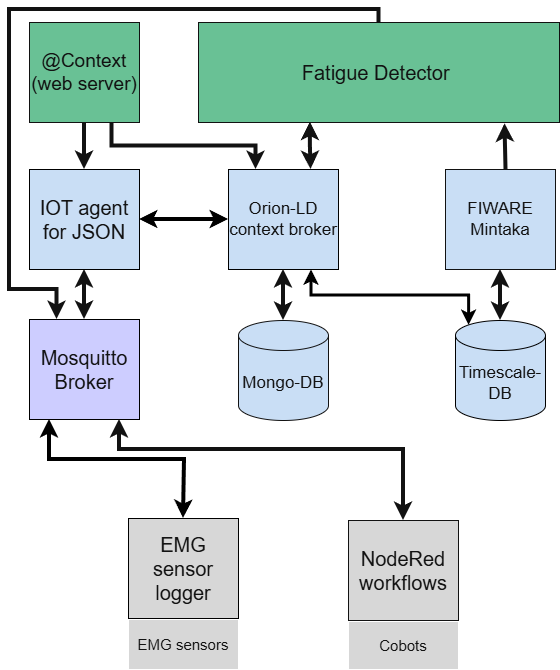
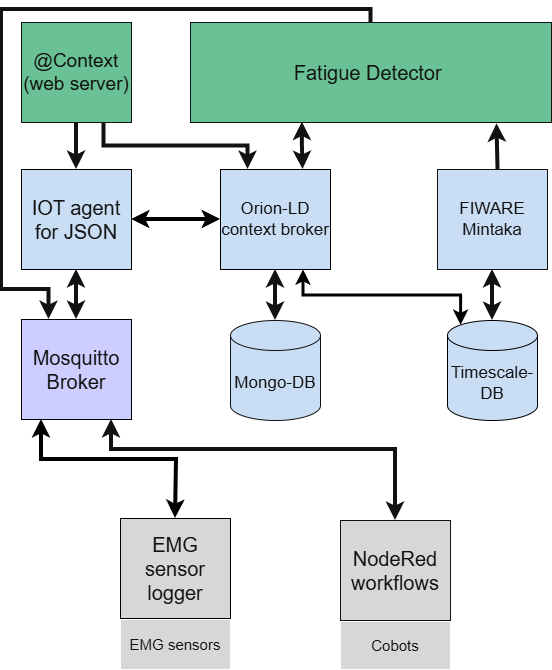
Readme

diff --git a/README.md b/README.md
@@ -12,9 +12,12 @@ This repo represents the main application of the Use case 1 the app has the foll
 - trigger a complex-event-processing (CEP) workflow that publishes an updated robot cell state based on the fatigue state of the operator.
 
 ## 2. Archetecture
-The Application based around Key FIWARE components namely Orion-LD , Mintaka and IoTAgent-JSON. 
-The picture below depicts the overall Archetecture. 
-![screenshot](Archetecture.png)
+The application is based around key FIWARE components, namely Orion-LD, Mintaka, and IoTAgent-JSON.  
+The picture below depicts the overall architecture.
+
+<p align="center">
+  <img src="Architecture.png" alt="Architecture diagram" width="700">
+</p>
 
 ## 2. How to use the code
 
@@ -108,7 +111,7 @@ via MQTT to the follwing topic json/danishabbas1/EMG1000/attrs. Which follows th
 
 This work was carried out within the framework of the project **P2CODE**, funded by the **European Union** under **Grant Agreement No. 101093069**.
 
-![Funded by the European Union](static\images\Funded.png)
+![Funded by the European Union](Funded.png)
 
 **Funded by the European Union**
 
